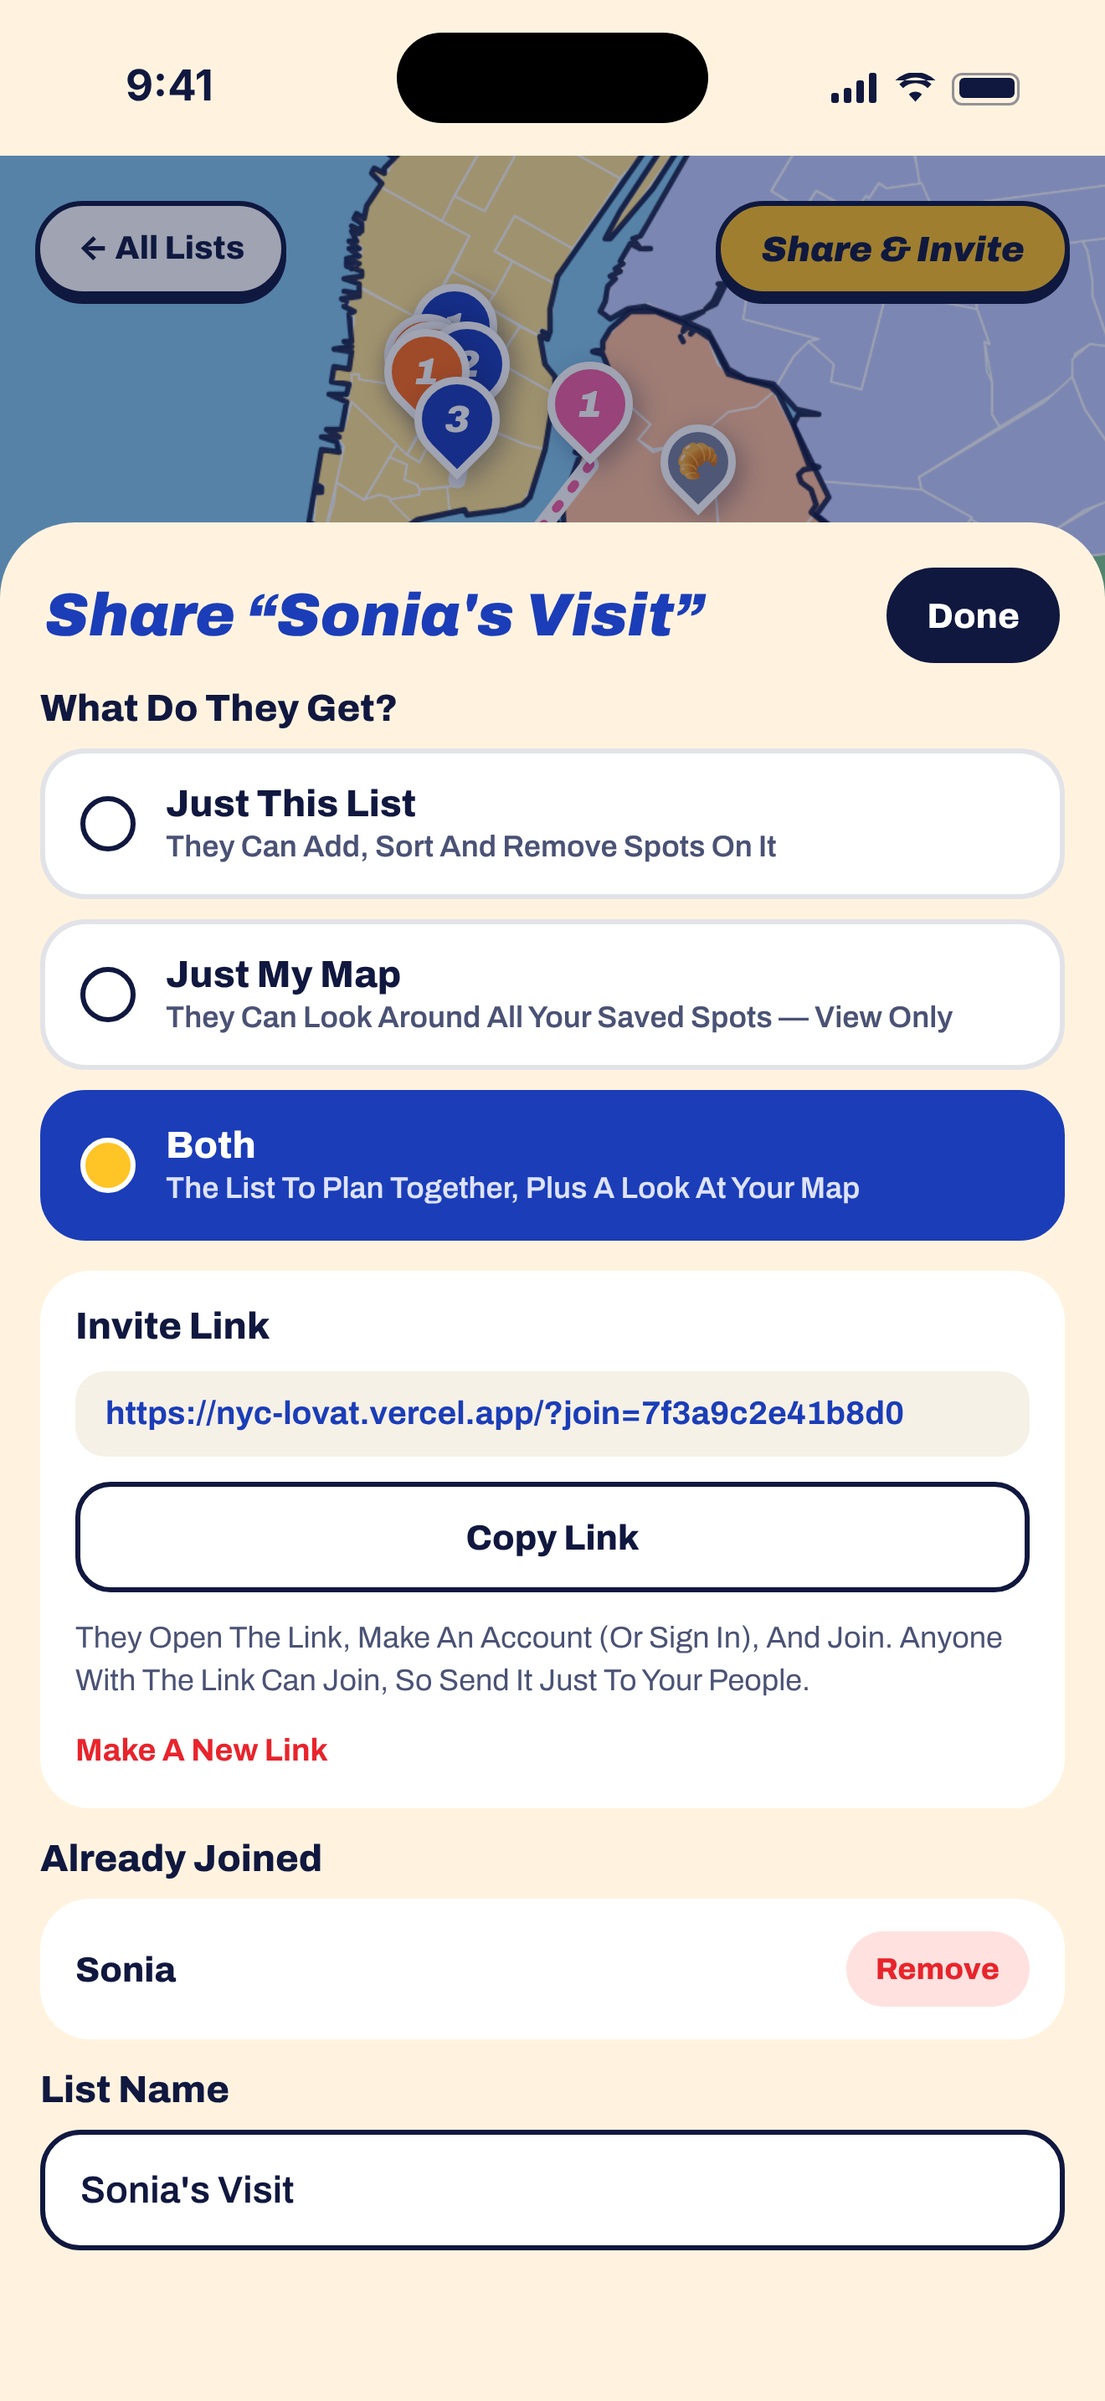
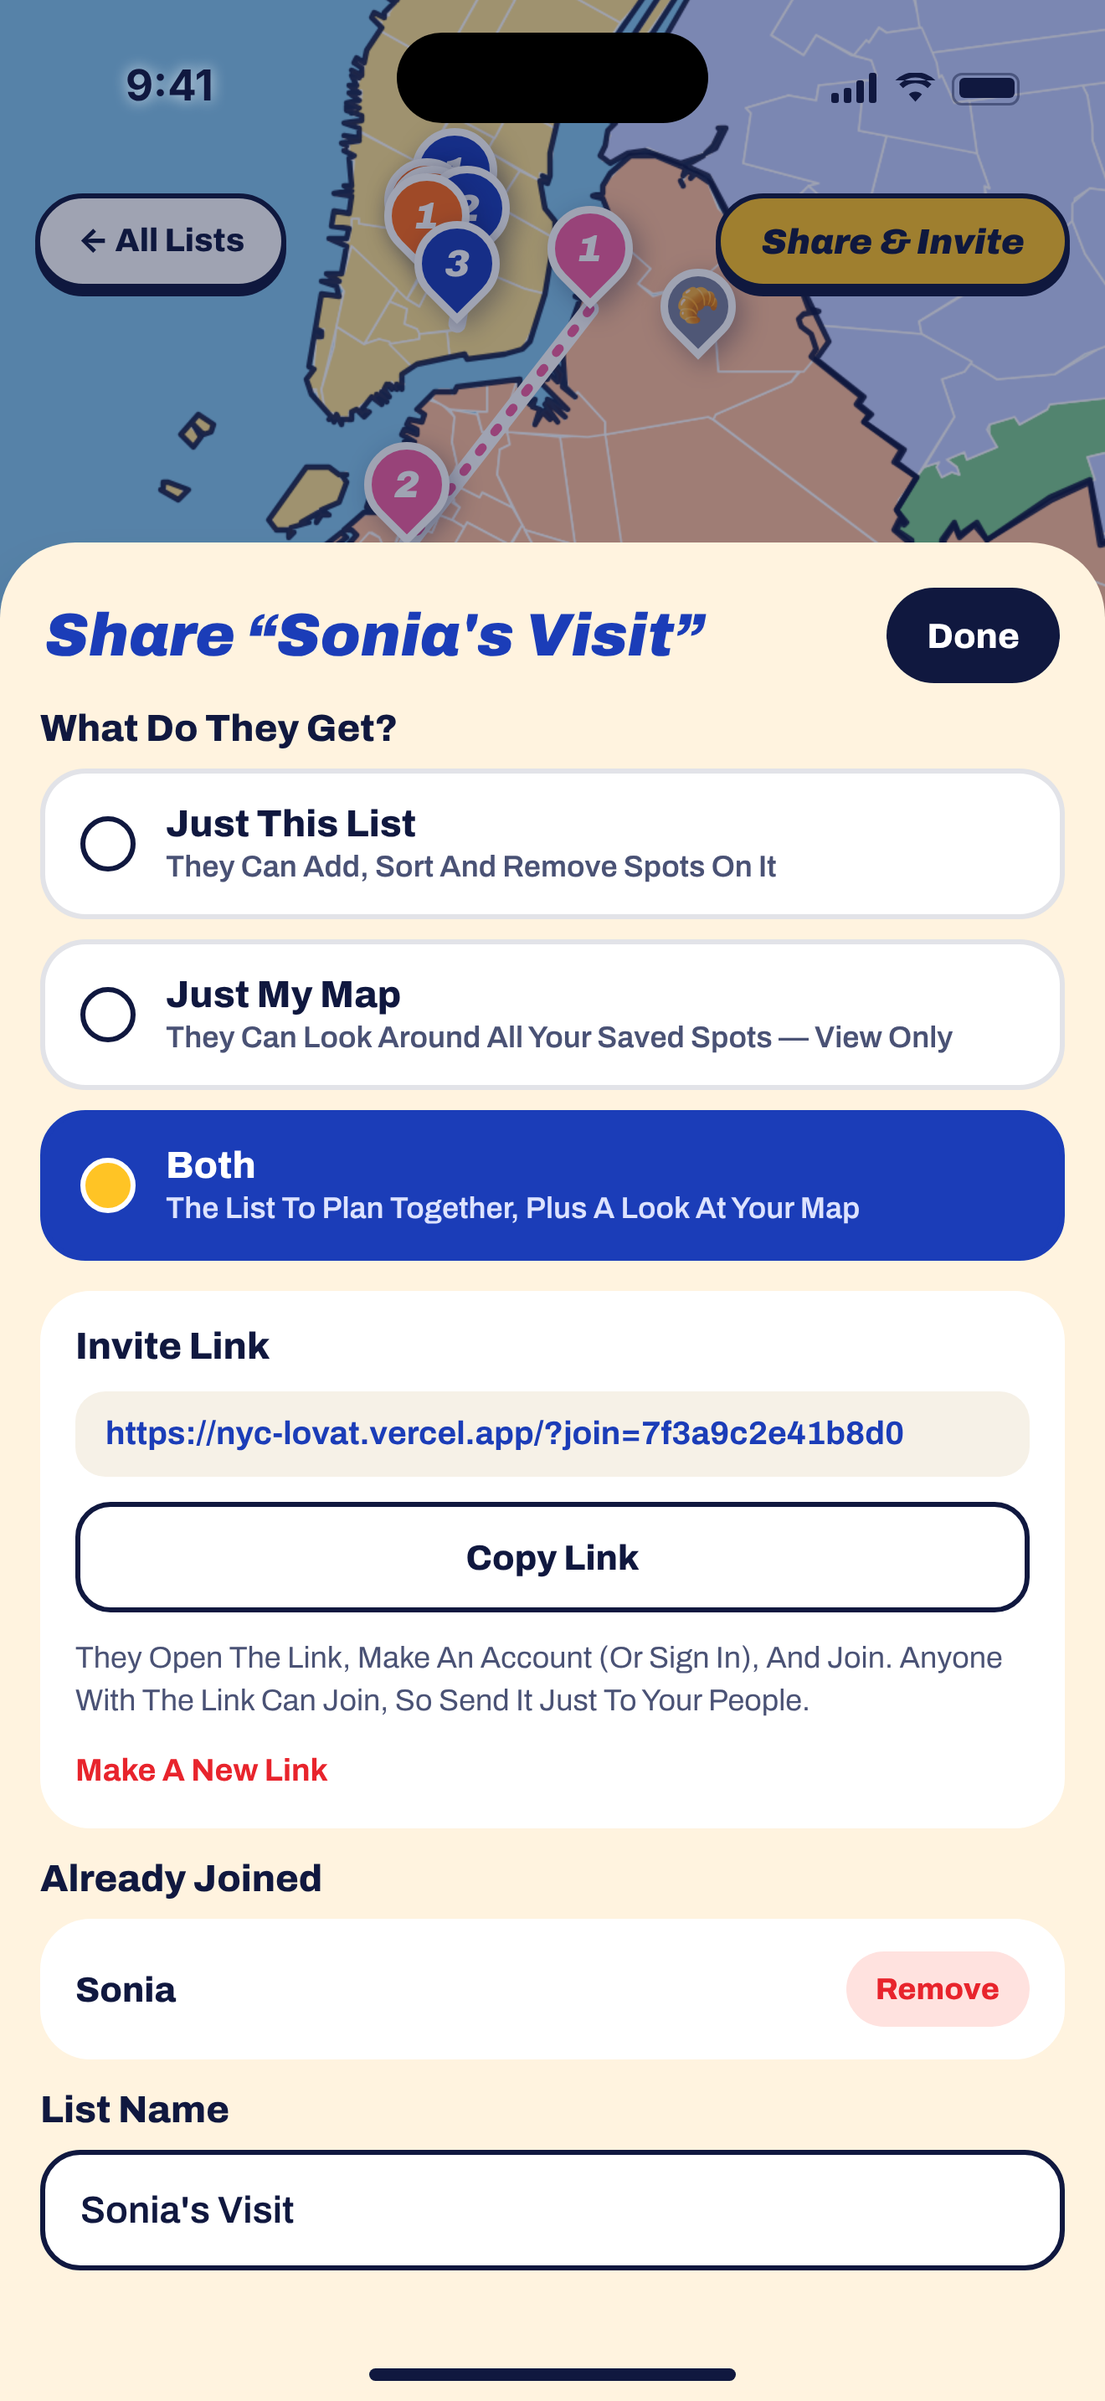
Rebrand the site to Spotted In and make the app fill the whole screen
- New Spotted / in NYC wordmark in the header and sign-in screen, new web icons, page titles, manifest, privacy and support pages
- Phone layout now runs edge to edge under the status bar and home indicator; controls keep clear via --st/--sb safe-area insets
- Retook App Store screenshots with the new look

Claude-Session: https://claude.ai/code/session_01LaGR3Nr6xF5UBoBBZpLECB

diff --git a/src/view.js b/src/view.js
@@ -17,6 +17,13 @@ const S = str => {
 const T = n => `calc(var(--st) + ${n - 46}px)`;
 const B = n => `calc(var(--sb) + ${n}px)`;
 
+// The Spotted In wordmark: a yellow "Spotted" pill with an orange "in NYC" tag, like the app icon.
+const Logo = (big) => html`
+  <div aria-label="Spotted In NYC" role="img" style=${S(`display:flex;align-items:flex-end;flex:none;pointer-events:auto;transform:rotate(${big ? -3 : -2}deg)`)}>
+    <span style=${S(`background:#FFC425;color:#10183F;padding:${big ? '9px 20px 11px' : '6px 15px 8px'};border-radius:999px;font-weight:900;font-stretch:100%;font-style:italic;font-size:${big ? 30 : 20}px;letter-spacing:-.02em;line-height:1;white-space:nowrap;box-shadow:0 ${big ? 5 : 4}px 0 #10183F`)}>Spotted</span>
+    <span style=${S(`margin:0 0 ${big ? -10 : -8}px ${big ? -12 : -9}px;background:#FF6B1A;color:#fff;padding:${big ? '5px 11px 6px' : '4px 8px 5px'};border-radius:999px;font-weight:900;font-style:italic;font-size:${big ? 15 : 11.5}px;line-height:1;white-space:nowrap;box-shadow:0 3px 0 #10183F;transform:rotate(6deg)`)}>in NYC</span>
+  </div>`;
+
 const Bul = (b, i) => html`<span key=${i} style=${S(`width:20px;height:20px;border-radius:50%;background:${b.bg};color:${b.fg};font-size:10.5px;font-weight:800;display:flex;align-items:center;justify-content:center`)}>${b.t}</span>`;
 const H3 = (title, onClear, clearLabel, mt) => html`
   <div style=${S(`display:flex;align-items:baseline;justify-content:space-between;margin:${mt}`)}>
@@ -30,7 +37,7 @@ function MapScreen(v) {
     <div ref=${v.mainMapRef} style=${S('position:absolute;inset:0')}></div>
     <div style=${S(`position:absolute;top:${T(52)};left:14px;right:14px;z-index:500;display:flex;flex-direction:column;gap:10px;pointer-events:none`)}>
       <div style=${S('display:flex;align-items:center;justify-content:space-between;gap:10px')}>
-        <div style=${S('background:#FFC425;color:#10183F;padding:7px 16px 9px;border-radius:999px;font-weight:900;font-stretch:100%;font-style:italic;font-size:19px;letter-spacing:-.01em;white-space:nowrap;flex:none;box-shadow:0 4px 0 #10183F;transform:rotate(-2deg);pointer-events:auto')}>My NYC List</div>
+        ${Logo(false)}
         <button onClick=${v.openAcct} aria-label=${v.syncOn ? 'Account and sync: ' + v.syncLabel : 'Your spots'} style=${S(`display:flex;align-items:center;gap:7px;border:0;background:#fff;color:#10183F;border-radius:999px;padding:8px 12px;font-weight:700;font-size:12px;white-space:nowrap;box-shadow:0 4px 14px rgba(16,24,63,.18);pointer-events:auto;cursor:${v.syncOn ? 'pointer' : 'default'}`)}>${v.statsText}${v.syncOn && html`<span style=${S(`width:8px;height:8px;border-radius:50%;background:${v.syncDot};flex:none`)}></span>`}</button>
       </div>
       <div class="noscroll" style=${S('display:flex;gap:8px;overflow-x:auto;margin:0 -14px;padding:2px 14px 6px;pointer-events:auto')}>
@@ -736,7 +743,7 @@ function AuthScreen(v) {
   const inp = S('height:52px;border-radius:16px;border:2px solid #10183F;background:#fff;padding:0 14px;font-family:inherit;font-size:16px;font-weight:600;color:#10183F;outline:none');
   return html`
   <div data-screen-label="Sign In" class="noscroll" style=${S(`position:absolute;inset:0;z-index:1250;background:#1B3DB8;overflow-y:auto;padding:${T(90)} 22px ${B(30)};display:flex;flex-direction:column;gap:22px`)}>
-    <div style=${S('align-self:flex-start;background:#FFC425;color:#10183F;padding:9px 20px 11px;border-radius:999px;font-weight:900;font-style:italic;font-size:28px;letter-spacing:-.01em;box-shadow:0 5px 0 #10183F;transform:rotate(-3deg)')}>My NYC List</div>
+    <div style=${S('align-self:flex-start')}>${Logo(true)}</div>
     <div style=${S('display:flex;flex-direction:column;gap:8px;color:#fff')}>
       <div style=${S('font-weight:900;font-stretch:100%;font-style:italic;font-size:40px;line-height:.95;letter-spacing:-.02em;color:#fff')}>${v.authTitle}</div>
       <div style=${S('font-size:15px;font-weight:600;color:#C9D0F0')}>Sign In To Keep Your Spots In Sync On Every Device.</div>

diff --git a/support.html b/support.html
@@ -3,14 +3,15 @@
 <head>
 <meta charset="utf-8">
 <meta name="viewport" content="width=device-width, initial-scale=1">
-<title>Help &amp; Support · My NYC List</title>
-<meta name="description" content="Help with My NYC List, the map of NYC places you want to visit.">
+<title>Help &amp; Support · Spotted In</title>
+<meta name="description" content="Help with Spotted In, the map of NYC places you want to visit.">
 <link rel="icon" type="image/png" href="/icons/icon-192.png">
 <style>
 :root{--blue:#1B3DB8;--navy:#10183F;--orange:#FF6B1A;--yellow:#FFC425;--cream:#FFF3DF;color-scheme:light}
 *{box-sizing:border-box}
 body{margin:0;background:var(--cream);color:var(--navy);font:16px/1.6 system-ui,-apple-system,'Segoe UI',sans-serif;-webkit-font-smoothing:antialiased}
 main{max-width:720px;margin:0 auto;padding:40px 16px 64px}
+.tag{display:inline-block;background:var(--orange);color:#fff;font-size:13px;padding:2px 8px 3px;border-radius:999px;vertical-align:middle;transform:rotate(6deg);margin-left:2px}
 .pill{display:inline-block;background:var(--yellow);color:var(--navy);padding:6px 16px 8px;border-radius:999px;font-weight:900;font-style:italic;font-size:20px;box-shadow:0 4px 0 var(--navy);transform:rotate(-2deg);text-decoration:none}
 h1{margin:28px 0 4px;font-size:clamp(30px,8vw,44px);line-height:1;font-weight:900;font-style:italic;color:var(--blue);letter-spacing:-.02em}
 h2{margin:28px 0 4px;font-size:18px;font-weight:800}
@@ -22,19 +23,19 @@ a{color:var(--blue);font-weight:700}
 </head>
 <body>
 <main>
-  <a class="pill" href="/">My NYC List</a>
+  <a class="pill" href="/">Spotted <span class="tag">in</span></a>
   <h1>Help &amp; Support</h1>
   <p>Questions, a bug, or an idea? Send an email and you'll hear back within a couple of days.</p>
-  <a class="btn" href="mailto:kwokshulum@gmail.com?subject=My%20NYC%20List">Email Support</a>
+  <a class="btn" href="mailto:kwokshulum@gmail.com?subject=Spotted%20In">Email Support</a>
 
   <h2>How do I save a spot from TikTok or Instagram?</h2>
-  <p>In TikTok, Instagram, Threads or Google Maps, tap <strong>Share</strong>, then <strong>NYC List</strong>. The next time you open the app, it reads the post and fills in the spot for you to check. You can also paste a link into Add A Spot (the + button).</p>
+  <p>In TikTok, Instagram, Threads or Google Maps, tap <strong>Share</strong>, then <strong>Spotted In</strong>. The next time you open the app, it reads the post and fills in the spot for you to check. You can also paste a link into Add A Spot (the + button).</p>
 
   <h2>How do I plan a trip with a friend?</h2>
   <p>Open the <strong>Lists</strong> tab, tap <strong>+ New List</strong>, add spots, then tap <strong>Share &amp; Invite</strong>. Your friend opens the link, makes an account and can add and sort spots with you.</p>
 
   <h2>My location isn't showing</h2>
-  <p>Go to iPhone Settings → NYC List → Location and choose <strong>While Using The App</strong>. You can also tap the map where you are.</p>
+  <p>Go to iPhone Settings → Spotted In → Location and choose <strong>While Using The App</strong>. You can also tap the map where you are.</p>
 
   <h2>How do I delete my account?</h2>
   <p>Tap the spot counter at the top of the Map tab, then <strong>Delete My Account</strong> and tap again to confirm. This deletes your account and everything in it.</p>

diff --git a/privacy.html b/privacy.html
@@ -3,14 +3,15 @@
 <head>
 <meta charset="utf-8">
 <meta name="viewport" content="width=device-width, initial-scale=1">
-<title>Privacy Policy · My NYC List</title>
-<meta name="description" content="How My NYC List handles your information.">
+<title>Privacy Policy · Spotted In</title>
+<meta name="description" content="How Spotted In handles your information.">
 <link rel="icon" type="image/png" href="/icons/icon-192.png">
 <style>
 :root{--blue:#1B3DB8;--navy:#10183F;--orange:#FF6B1A;--yellow:#FFC425;--cream:#FFF3DF;color-scheme:light}
 *{box-sizing:border-box}
 body{margin:0;background:var(--cream);color:var(--navy);font:16px/1.6 system-ui,-apple-system,'Segoe UI',sans-serif;-webkit-font-smoothing:antialiased}
 main{max-width:720px;margin:0 auto;padding:40px 16px 64px}
+.tag{display:inline-block;background:var(--orange);color:#fff;font-size:13px;padding:2px 8px 3px;border-radius:999px;vertical-align:middle;transform:rotate(6deg);margin-left:2px}
 .pill{display:inline-block;background:var(--yellow);color:var(--navy);padding:6px 16px 8px;border-radius:999px;font-weight:900;font-style:italic;font-size:20px;box-shadow:0 4px 0 var(--navy);transform:rotate(-2deg);text-decoration:none}
 h1{margin:28px 0 4px;font-size:clamp(30px,8vw,44px);line-height:1;font-weight:900;font-style:italic;color:var(--blue);letter-spacing:-.02em}
 h2{margin:32px 0 6px;font-size:20px;font-weight:800}
@@ -23,12 +24,12 @@ a{color:var(--blue);font-weight:700}
 </head>
 <body>
 <main>
-  <a class="pill" href="/">My NYC List</a>
+  <a class="pill" href="/">Spotted <span class="tag">in</span></a>
   <h1>Privacy Policy</h1>
   <p class="muted">Last updated October 30, 2026</p>
 
   <div class="card">
-    <p style="margin:0"><strong>The short version:</strong> My NYC List keeps the places you save so they sync to your devices and to the lists you share. It doesn't show ads, doesn't track you across other apps or websites, and never sells your information.</p>
+    <p style="margin:0"><strong>The short version:</strong> Spotted In keeps the places you save so they sync to your devices and to the lists you share. It doesn't show ads, doesn't track you across other apps or websites, and never sells your information.</p>
   </div>
 
   <h2>What the app stores</h2>
@@ -58,7 +59,7 @@ a{color:var(--blue);font-weight:700}
   <p>In the app, tap the spot counter on the Map tab, then <strong>Delete My Account</strong>. This permanently deletes your account, your map and the lists you made, and removes you from lists you joined. You can also delete single spots or lists whenever you like.</p>
 
   <h2>Children</h2>
-  <p>My NYC List isn't meant for children under 13, and we don't knowingly collect information from them.</p>
+  <p>Spotted In isn't meant for children under 13, and we don't knowingly collect information from them.</p>
 
   <h2>Questions</h2>
   <p>Email <a href="mailto:kwokshulum@gmail.com">kwokshulum@gmail.com</a>. If this policy changes, the date at the top will change too.</p>

diff --git a/index.html b/index.html
@@ -3,15 +3,15 @@
 <head>
 <meta charset="utf-8">
 <meta name="viewport" content="width=device-width, initial-scale=1, viewport-fit=cover">
-<title>My NYC List</title>
+<title>Spotted In</title>
 <meta name="theme-color" content="#FFF3DF">
 <meta name="apple-mobile-web-app-capable" content="yes">
-<meta name="apple-mobile-web-app-title" content="NYC List">
+<meta name="apple-mobile-web-app-title" content="Spotted In">
 <link rel="manifest" href="/manifest.webmanifest">
 <link rel="icon" type="image/png" sizes="192x192" href="/icons/icon-192.png">
 <link rel="apple-touch-icon" href="/icons/apple-touch-icon.png">
 <meta name="apple-mobile-web-app-status-bar-style" content="default">
-<meta name="description" content="Kotis's map of NYC restaurants, cafes and cute shops to visit.">
+<meta name="description" content="Spotted In: save the NYC restaurants, cafes and cute shops you spot on TikTok and Instagram, and plan where to go.">
 <link rel="stylesheet" href="/vendor/leaflet.css">
 <link rel="preconnect" href="https://fonts.googleapis.com">
 <link href="https://fonts.googleapis.com/css2?family=Archivo:ital,wdth,wght@0,62..125,100..900;1,62..125,100..900&display=swap" rel="stylesheet">
@@ -45,7 +45,7 @@ button:focus-visible,input:focus-visible,select:focus-visible,textarea:focus-vis
 /* Phone (or a short window): the app fills the screen, no frame or fake status bar. */
 @media (max-width:520px),(max-height:760px){
   body{background:var(--cream);overscroll-behavior:none}
-  :root{--st:12px;--sb:0px}
+  :root{--st:calc(env(safe-area-inset-top,0px) + 12px);--sb:max(0px,calc(env(safe-area-inset-bottom,0px) - 12px))}
   .stage{padding:0;height:100%;min-height:0;display:block}
   .device{width:100%;height:100%;border-radius:0;padding:0;box-shadow:none;background:var(--cream)}
   .screen{border-radius:0}
@@ -53,7 +53,6 @@ button:focus-visible,input:focus-visible,select:focus-visible,textarea:focus-vis
 }
 @media (prefers-reduced-motion:reduce){*{transition:none!important;animation:none!important}}
 </style>
-<style>:root{padding-top:env(safe-area-inset-top,0px);padding-bottom:env(safe-area-inset-bottom,0px)}</style>
 </head>
 <body>
 <div id="root"></div>

diff --git a/src/native.js b/src/native.js
@@ -7,7 +7,7 @@ const NYCNative = (() => {
   const plug = name => (C.Plugins && C.Plugins[name]) || (C.registerPlugin && C.registerPlugin(name));
   const Geo = plug('Geolocation'), Share = plug('Share'), App = plug('App'), Haptics = plug('Haptics'), StatusBar = plug('StatusBar'), Inbox = plug('AppGroup');
 
-  // Location through iOS's own permission prompt ("Allow NYC List to use your location?").
+  // Location through iOS's own permission prompt ("Allow Spotted In to use your location?").
   if (Geo) {
     const ids = new Map(); let n = 0;
     const err = e => { const m = String((e && e.message) || ''); return { code: /denied|permission|not authorized|disabled/i.test(m) ? 1 : /timeout/i.test(m) ? 3 : 2, message: m }; };
@@ -36,7 +36,7 @@ const NYCNative = (() => {
   // Dark status-bar text on the cream background.
   try { StatusBar && StatusBar.setStyle({ style: 'LIGHT' }); } catch (e) {}
 
-  // Links saved from the share sheet ("Share → NYC List") wait in a shared app-group inbox.
+  // Links saved from the share sheet ("Share → Spotted In") wait in a shared app-group inbox.
   async function takeInbox() {
     if (!Inbox) return;
     try { const r = await Inbox.takeLinks(); const links = (r && r.links) || []; if (links.length) window.dispatchEvent(new CustomEvent('nyc-shared', { detail: links })); } catch (e) {}

diff --git a/src/lists.js b/src/lists.js
@@ -283,7 +283,7 @@ Object.assign(Component.prototype, {
   },
   inviteLink(t) { return SITE() + '/?join=' + encodeURIComponent(t.invite_code); },
   inviteText(t) { const what = t.share_list && t.share_map ? 'plan “' + t.name + '” and see my NYC map' : t.share_list ? 'plan “' + t.name + '”' : 'see my NYC map';
-    return `${t.owner_name || NYCLists.myName()} invited you to ${what} on My NYC List 🗽`; },
+    return `${t.owner_name || NYCLists.myName()} invited you to ${what} on Spotted In 🗽`; },
   async shareInvite(t) { const url = this.inviteLink(t), text = this.inviteText(t);
     if (navigator.share) { try { await navigator.share({ title: t.name, text, url }); return; } catch (e) { if (e && e.name === 'AbortError') return; } }
     this.copyInvite(t); },

diff --git a/sw.js b/sw.js
@@ -1,7 +1,7 @@
 // Offline support: map data and libraries come from the cache first (they rarely change);
 // the page, app code and config always try the network first so updates arrive right away.
 // Requests to other sites (Supabase, Google Maps, fonts) are never touched.
-const CACHE = 'nyc-list-v10';
+const CACHE = 'nyc-list-v11';
 const CORE = ['/', '/index.html', '/config.js', '/manifest.webmanifest',
   '/src/runtime.js', '/src/native.js', '/src/sync.js', '/src/video.js', '/src/logic.js', '/src/lists.js', '/src/view.js',
   '/vendor/react.production.min.js', '/vendor/react-dom.production.min.js', '/vendor/htm.umd.js',

diff --git a/src/runtime.js b/src/runtime.js
@@ -1,4 +1,4 @@
-// My NYC List — standalone runtime.
+// Spotted In (formerly My NYC List) — standalone runtime.
 // The app logic (logic.js) is carried over verbatim from the Claude Design prototype
 // "NYC List v2". This file supplies the small base class it was written against:
 // setState applies immediately to this.state, then the React host re-renders.

diff --git a/HANDOFF.md b/HANDOFF.md
@@ -1,4 +1,4 @@
-# My NYC List: Project Handoff
+# Spotted In (formerly My NYC List): Project Handoff
 
 Attach this file (and `nyc-list.zip`, or point Claude at the GitHub repo) to a new chat to keep working on the app.
 
@@ -6,7 +6,7 @@ Attach this file (and `nyc-list.zip`, or point Claude at the GitHub repo) to a n
 
 ## 1. What the app is
 
-**My NYC List** is Kotis's personal map of New York City places to visit: restaurants, cafes, bakeries, gourmet groceries and cute shops, mostly saved from TikTok, Instagram, Threads and Google Maps. It runs in a phone browser and installs to the iPhone home screen like an app (a PWA). The list syncs across devices through Supabase.
+**Spotted In** (formerly My NYC List) is Kotis's personal map of New York City places to visit: restaurants, cafes, bakeries, gourmet groceries and cute shops, mostly saved from TikTok, Instagram, Threads and Google Maps. It runs in a phone browser and installs to the iPhone home screen like an app (a PWA). The list syncs across devices through Supabase.
 
 - **Live address:** https://nyc-lovat.vercel.app
 - **Design source:** Claude Design project "NYC Exploration Spot Mapper", file `NYC List v2.dc.html`. The look (colors, type, layout) follows that file.
@@ -143,7 +143,7 @@ New accounts start with an empty list. The 14 example spots only appear when no 
 
 ### Maps, routing and offline
 - **Subway routing:** an *estimate* from station coordinates and shared lines, not live. Live times come from the Google Maps links.
-- **Offline:** `sw.js` caches the app. Map data and libraries are served from the cache first; the page and code come from the network first. **Whenever files in `src/` change, bump `CACHE` in `sw.js`** (currently `nyc-list-v10`).
+- **Offline:** `sw.js` caches the app. Map data and libraries are served from the cache first; the page and code come from the network first. **Whenever files in `src/` change, bump `CACHE` in `sw.js`** (currently `nyc-list-v11`).
 
 ### Server functions (`/api`)
 Vercel Node.js functions, CommonJS `module.exports = async (req, res)`. Files starting with `_` are helpers, not endpoints.
